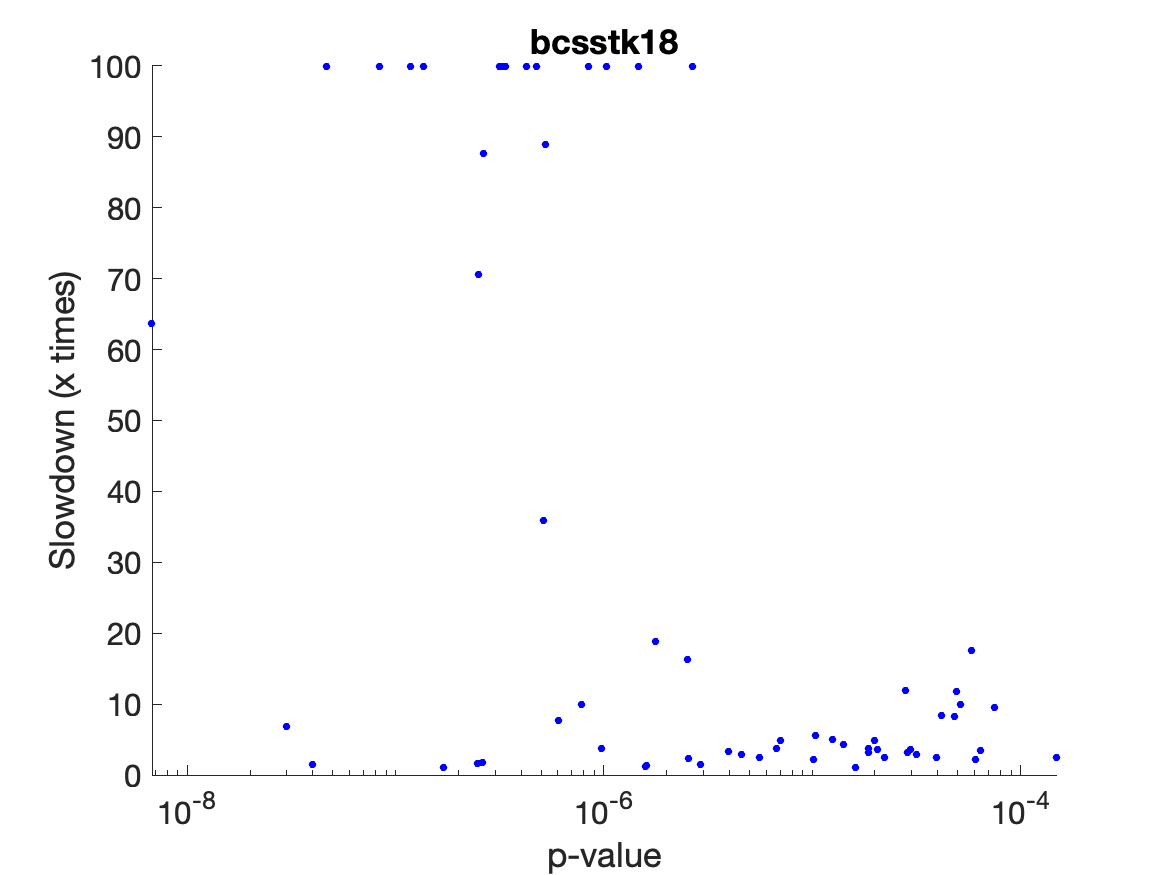
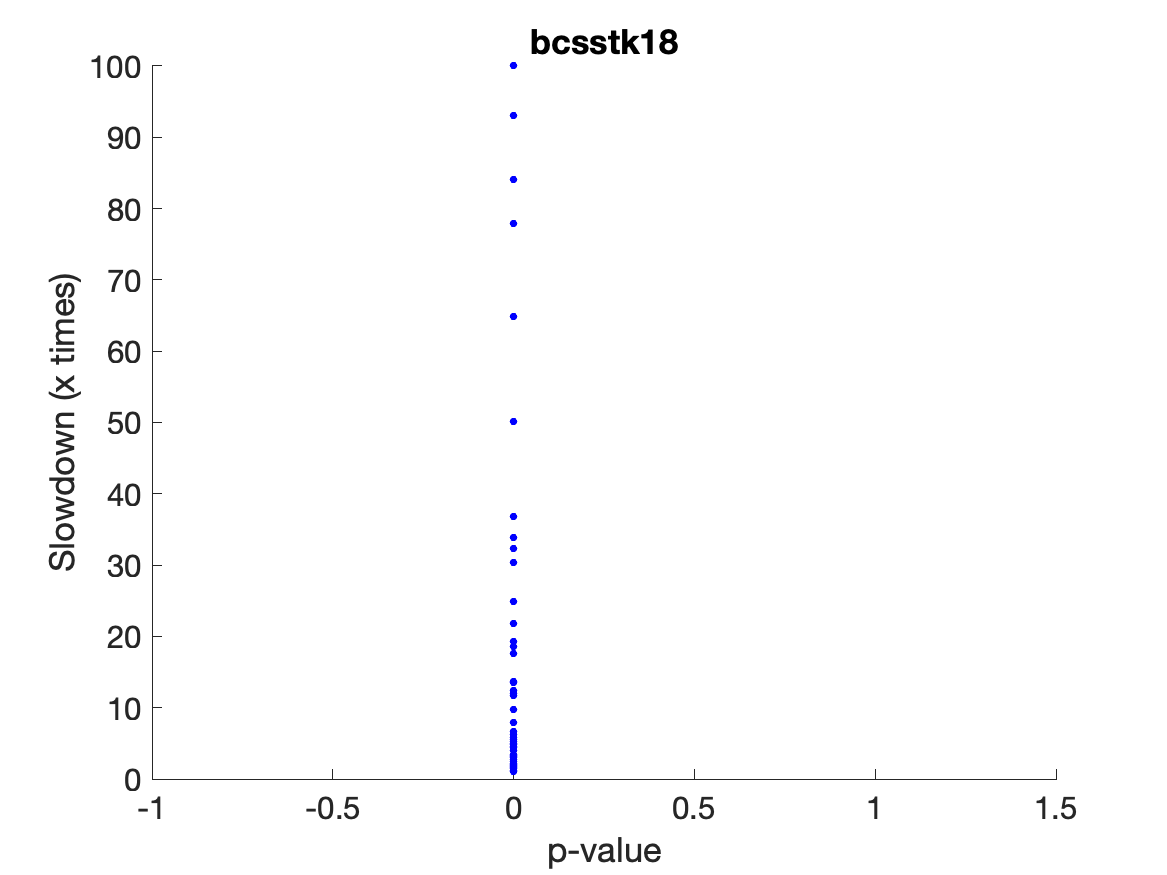
Generated graphs

diff --git a/Step6_correlate.m b/Step6_correlate.m
@@ -14,7 +14,7 @@ color = 'b';
 matrices = {'bcsstk18'};
 num_matrices = length(matrices);
 
-bitflip_iter = 110;
+bitflip_iter = 2;
 
 for m = 1:num_matrices
     matrixname = matrices{m};
@@ -31,7 +31,7 @@ for m = 1:num_matrices
     %% slowdown figure
     figure;
     scatter(A_row_2norms, converge_ratios, mrk_size, mrk, 'filled', color);
-    set(gca,'xscale','log');
+    set(gca,'xscale');
     xlabel('Row 2-norm of matrix A');
     ylabel('Slowdown (x times)');
     title(matrixname, 'interpreter', 'none');
@@ -48,7 +48,7 @@ for m = 1:num_matrices
     p = result(:, 9);
     figure;
     scatter(p, converge_ratios, mrk_size, mrk, 'filled', color);
-    set(gca,'xscale','log');
+    set(gca,'xscale');
     xlabel('p-value');
     ylabel('Slowdown (x times)');
     title(matrixname, 'interpreter', 'none');
@@ -62,7 +62,7 @@ for m = 1:num_matrices
     load(abs_grad_filename);
     figure;
     scatter(g, converge_ratios, mrk_size, mrk, 'filled', color);
-    set(gca,'xscale','log');
+    set(gca,'xscale');
     xlabel('gradient');
     ylabel('Slowdown (x times)');
     title(matrixname, 'interpreter', 'none');
@@ -70,6 +70,9 @@ for m = 1:num_matrices
     hold off;
     figure_filename = ['./figures/', comments, '_', matrixname, '_bitflip_iter=', num2str(bitflip_iter), 'gradient_'];
     print(figure_filename, '-dpng');
+
+    
+
 end 
     
 end

diff --git a/Step3_solving.m b/Step3_solving.m
@@ -82,7 +82,6 @@ for i = injections
         load(iter_filename, 'noerror_converge');
         error_max_iter = noerror_converge*100;
         
-    %         [~,flag,iter,diff_v] = pcg3(A, b, tol, error_max_iter, L, L', inject_error, bitflip_pos, bitflip_iter);
         [~,flag,iter,diff_v,first_temp_gradient,first_rel_gradient, p] = pcg4(A,b,tol,error_max_iter,L,L', inject_error,bitflip_pos,bitflip_iter);
         converge = iter;   % number of iterations in error-injecting run
     
